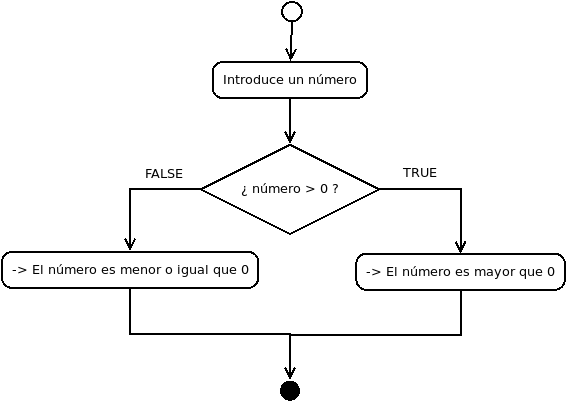
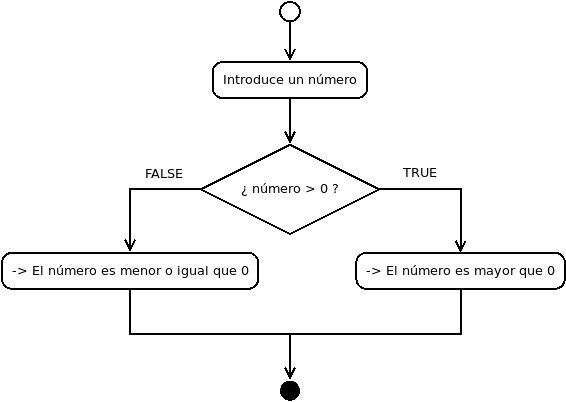
image

diff --git a/temario/flujo/ifelse.md b/temario/flujo/ifelse.md
@@ -23,4 +23,4 @@ Sin embargo, lo habitual en un programa es que se tome distintos caminos en func
 
 <img src="./images/if.png"
      alt="if"
-     style="display: block; margin-left:auto; margin-right:auto" />
+     style="display: block; margin-left:auto; margin-right:auto; width: 50%" />
